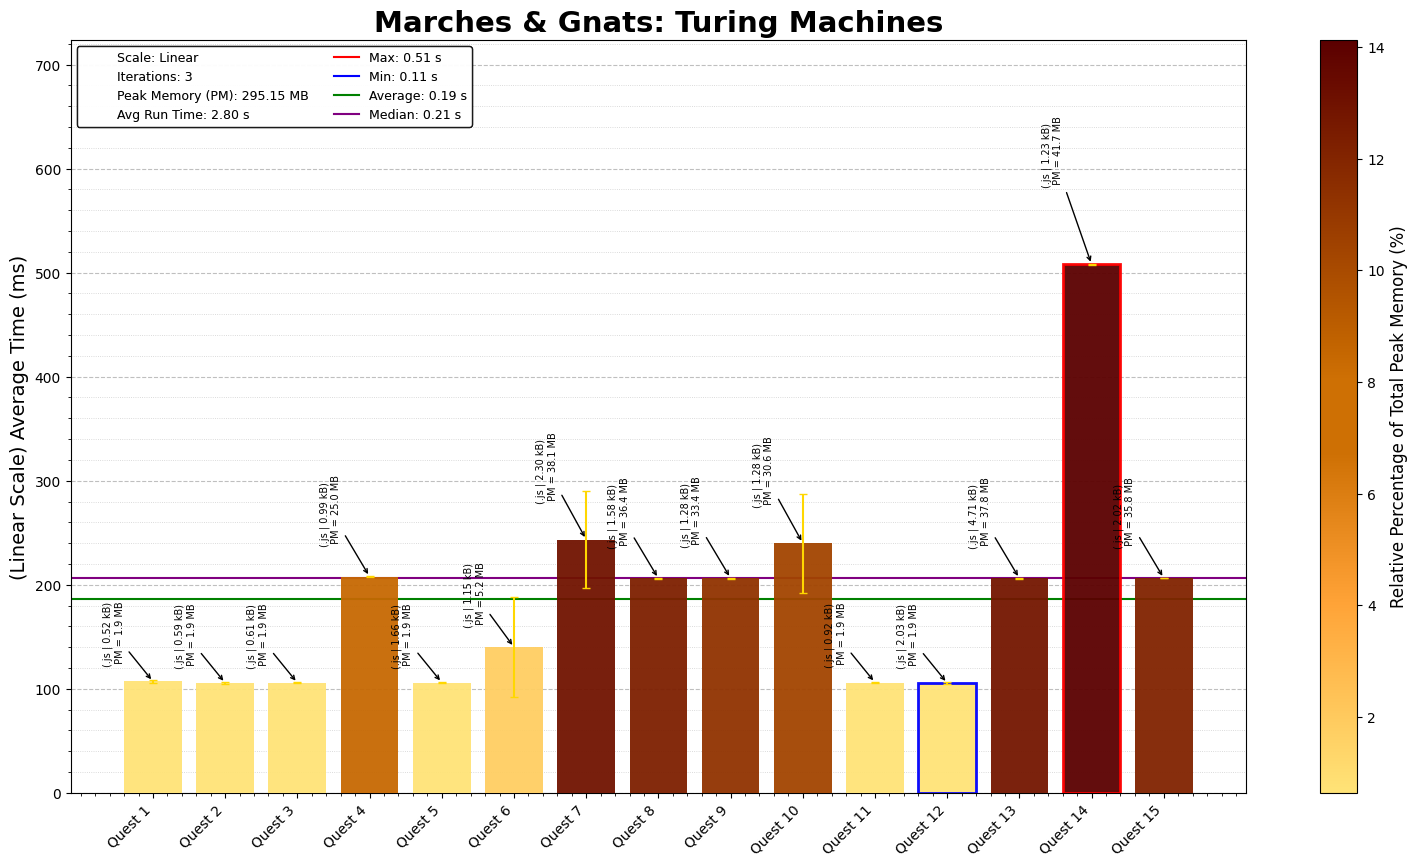
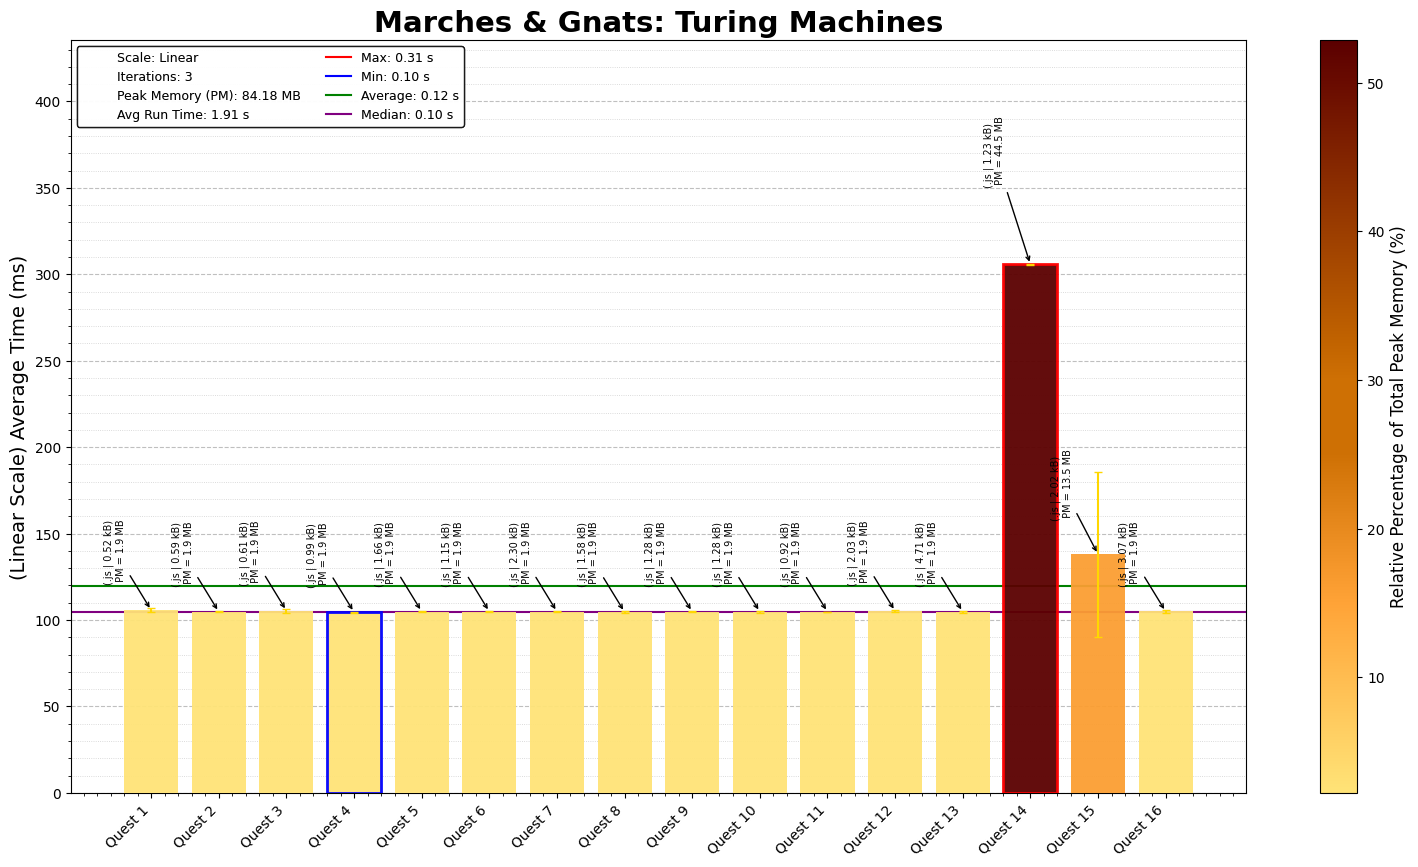
MNG Quest 16: Roman unary

diff --git a/MNG/Quest_16/MNGQuest_16.js b/MNG/Quest_16/MNGQuest_16.js
@@ -1,0 +1,97 @@
+/* Marches And Gnatts - Quest 16
+Solution Started: September 5, 2025
+Puzzle Link: https://mng.quest/quest/16/
+Solution by: Abbas Moosajee
+Brief: [Roman unary]
+*/
+
+import { MNG_ARENA } from '../MNG_ARENA.js';
+
+const NUMERALS = [
+    ["I", 1],
+    ["V", 5],
+    ["X", 10],
+    ["L", 50],
+    ["C", 100],
+    ["D", 500],
+    ["M", 1000]
+];
+
+const NUMERAL_SYMBOLS = new Set(NUMERALS.map(([sym, _]) => sym));
+
+const IGNORING = {
+    1: new Set(["I"]),
+    5: new Set(["I"]),
+    10: new Set(["I","V","X"]),
+    40: new Set(["I","V","X"]),
+    50: new Set(["I","V","X"]),
+    90: new Set(["I","V","X"]),
+    100: new Set(["I","V","X","L","C"]),
+    400: new Set(["I","V","X","L","C"]),
+    500: new Set(["I","V","X","L","C"]),
+    900: new Set(["I","V","X","L","C"]),
+    1000: new Set(["I","V","X","L","C","D","M"])
+};
+
+const CAN_SUBTRACT = {
+    "I": new Set(["V","X"]),
+    "X": new Set(["L","C"]),
+    "C": new Set(["D","M"])
+};
+
+function romanUnary(turingMachine) {
+    let seenValues = new Set();
+
+    // Initial rules: convert each numeral to its value
+    for (const [sym, value] of NUMERALS) {
+        turingMachine.add_rule("INIT", sym, `ADD_${value}`, "_", "R");
+        seenValues.add(value);
+
+        for (const [largerSym, largerValue] of NUMERALS) {
+            if (!CAN_SUBTRACT[sym] || !CAN_SUBTRACT[sym].has(largerSym)) continue;
+            turingMachine.add_rule(`ADD_${value}`, largerSym, `ADD_${largerValue - value}`, "_", "R");
+            seenValues.add(largerValue - value);
+        }
+    }
+
+    // Add rules for decreasing values
+    for (const value of seenValues) {
+        const ignoreSet = new Set(["|"]);
+        if (IGNORING[value]) {
+            for (const s of IGNORING[value]) ignoreSet.add(s);
+        }
+        const nextState = (value !== 1) ? `ADD_${value-1}` : "NEXT";
+        const direction = (value !== 1) ? "R" : "L";
+        turingMachine.find_state(`ADD_${value}`, "_", ignoreSet, "R", nextState, "|", direction);
+    }
+
+    // Fill in missing values
+    for (let value = 1; value < Math.max(...seenValues); value++) {
+        if (seenValues.has(value)) continue;
+        const nextState = (value !== 1) ? `ADD_${value-1}` : "NEXT";
+        turingMachine.add_rule(`ADD_${value}`, "_", nextState, "|", "R");
+    }
+
+    // Go to next numeral
+    turingMachine.find_state("NEXT", "_", new Set([...NUMERAL_SYMBOLS, "|"]), "L", "INIT", "_", "R");
+
+    // Halt when input consumed
+    for (const [sym, value] of NUMERALS) {
+
+        turingMachine.add_rule("FINISH", sym, `FINISH`, "_", "R");
+    }
+    turingMachine.add_rule("FINISH", "|", "HALT", "|", "L");
+    turingMachine.add_rule("FINISH", "_", "HALT", "_", "R");
+    turingMachine.add_rule("INIT", "|", "FINISH", "|", "R");
+}
+
+// Example usage:
+const romanUnaryMachine = new MNG_ARENA("Quest16_input");
+romanUnary(romanUnaryMachine);
+
+// Test case
+const testTape = "IX";
+romanUnaryMachine.benchmark_solution([testTape, "XIV", "CX"], false)
+
+// romanUnaryMachine.test_solution(testTape, false);
+romanUnaryMachine.save_rules(import.meta.url);

diff --git a/MNG/ReadME_MNG.md b/MNG/ReadME_MNG.md
@@ -31,5 +31,6 @@ Here's your combined table with all **Quest titles, descriptions, links, steps, 
 | Quest 13 | Unary Array Sort           | Sort a list of unary numbers                | [View Solution](13/MNGDay13.js) | 2,698,859       | 2,182    |
 | Quest 14 | Binary to Decimal           | Convert a binary num to decimal                | [View Solution](14/MNGDay14.js) | 160,454       | 30    |
 
-| Quest 15 | SQUARE ROOT           | Calculate Sqaure root of a unary number                | [View Solution](15/MNGDay15.js) |        |     |
+| Quest 15 | SQUARE ROOT           | Calculate Sqaure root of a unary number                | [View Solution](15/MNGDay15.js) |78 727 206|1479|
+| Quest 16 | ROMAN UNARY           | Conver roman number to unary number                | [View Solution](15/MNGDay15.js) |164722|1086|
 ---
